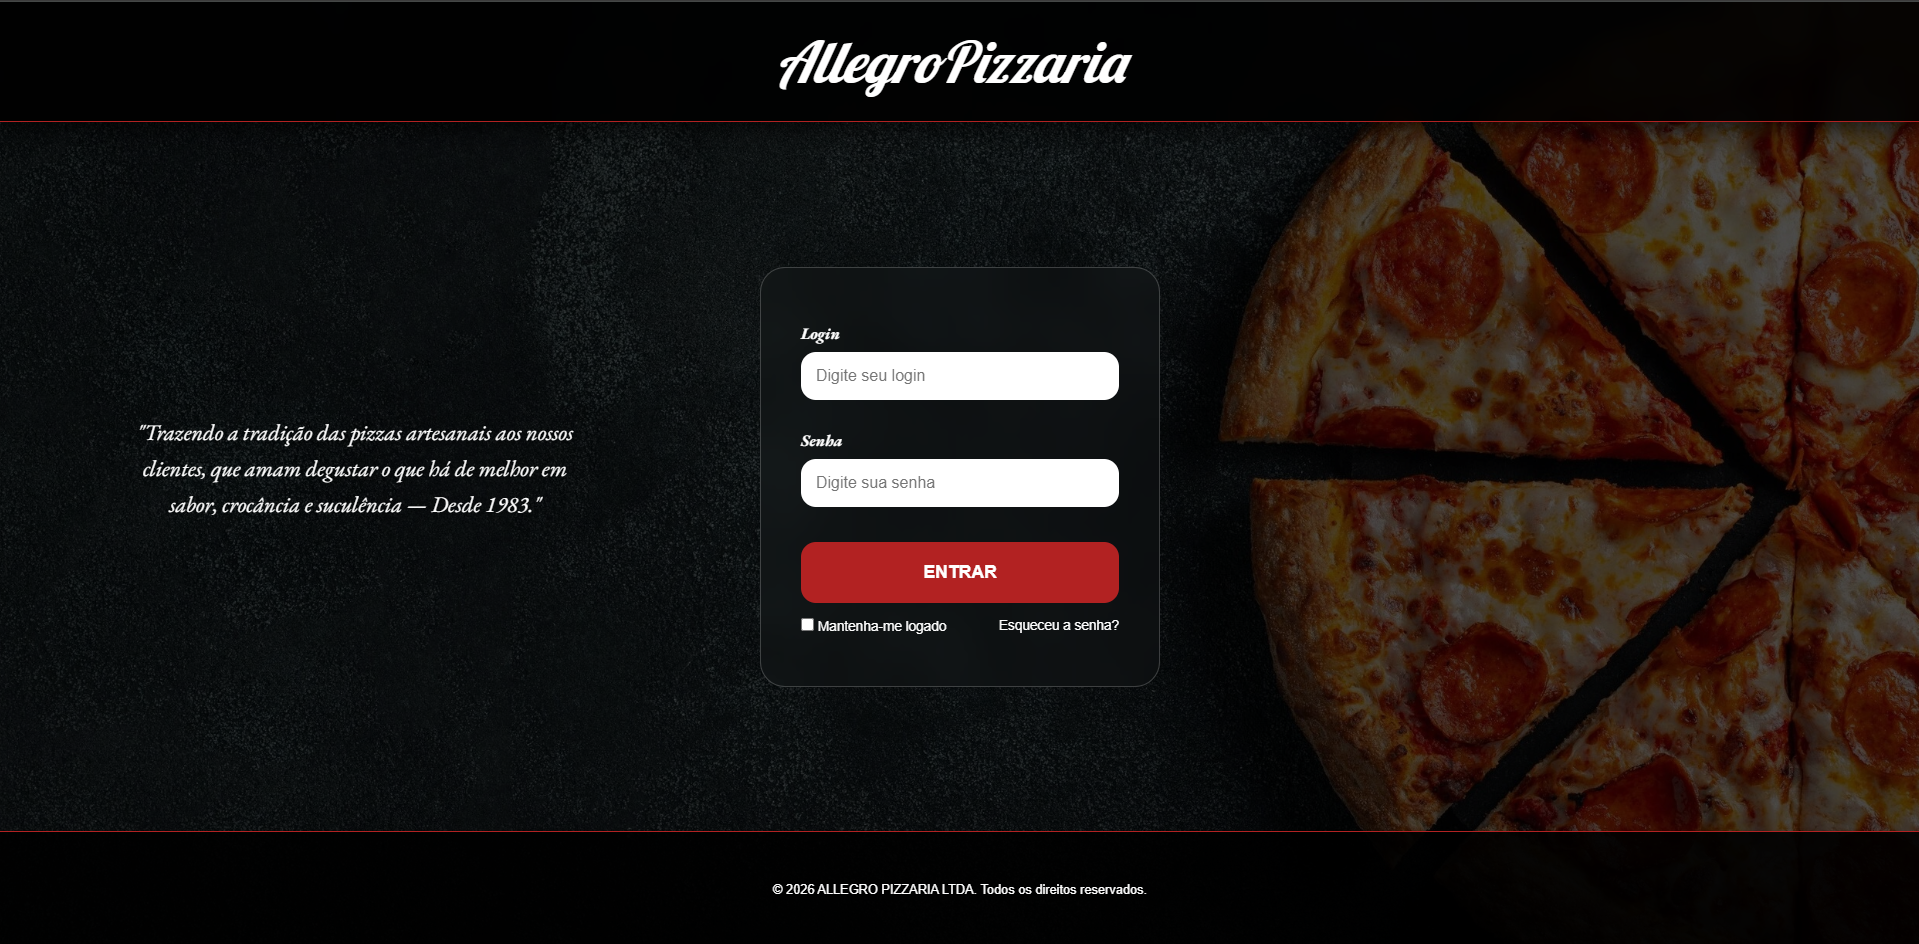
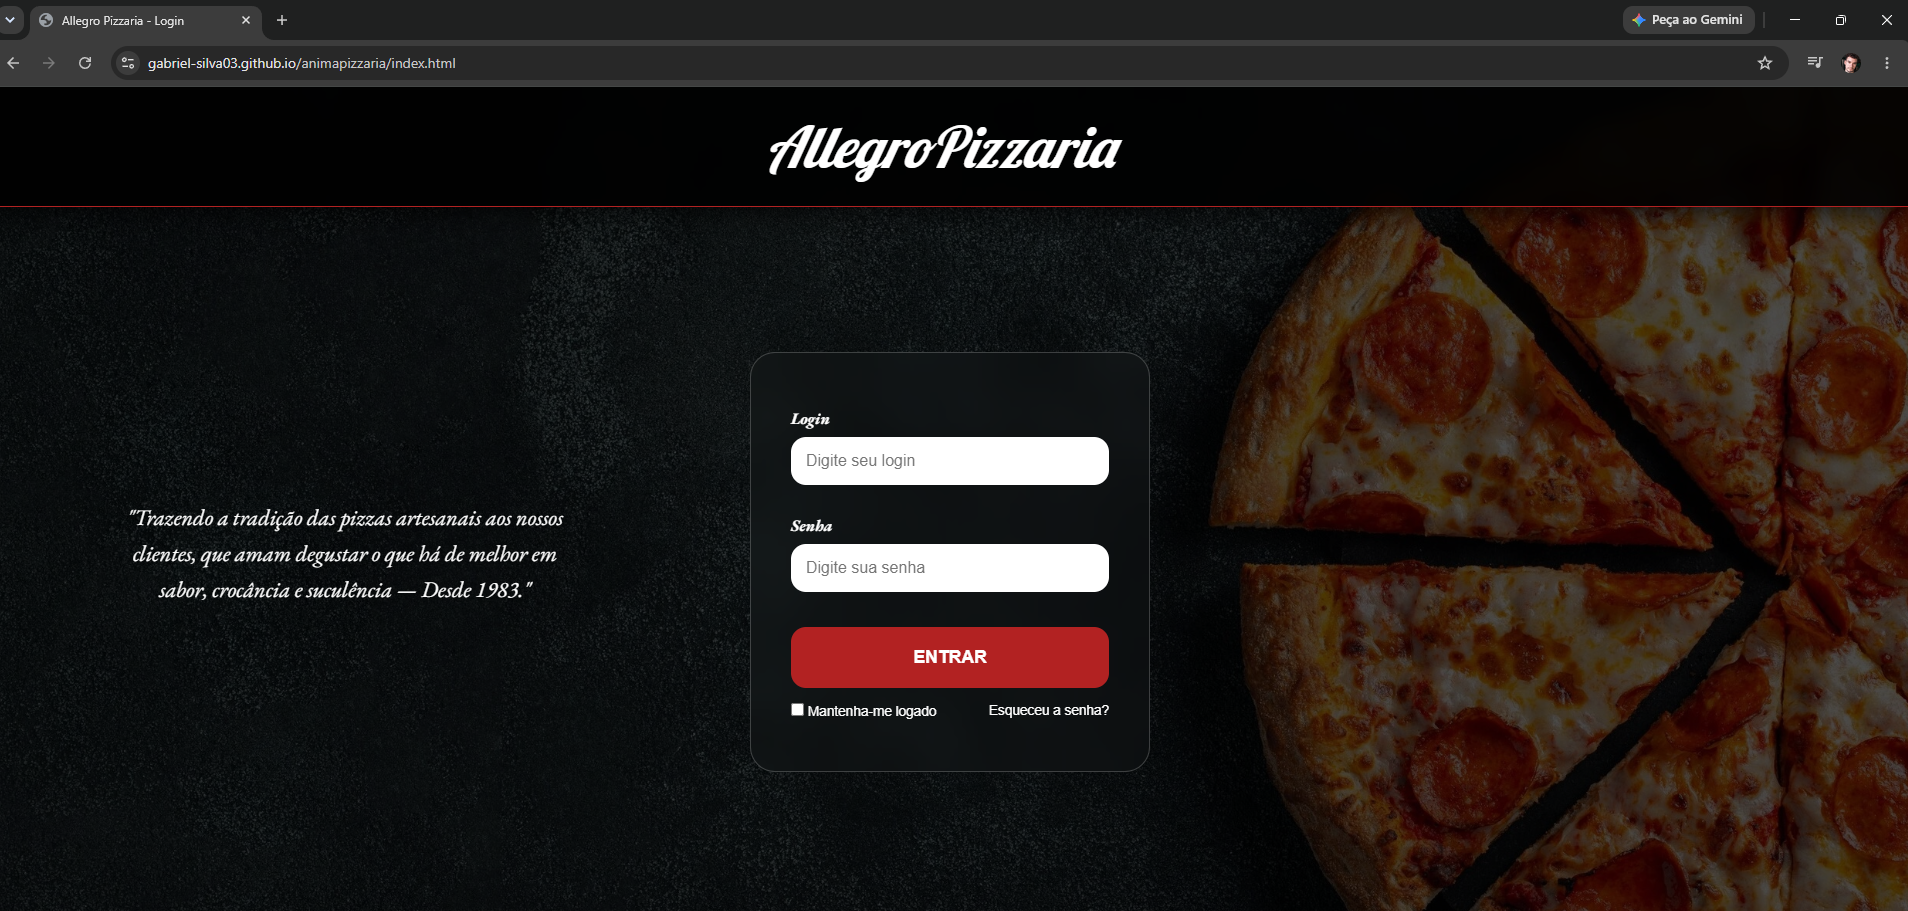
Correções de descrição animada e projetos realidos

diff --git a/index.html b/index.html
@@ -117,8 +117,8 @@
                     <i class="fab fa-html5"></i>
                     <h3>HTML5</h3>
                     <div class="barra-container">
-                        <div class="barra-progresso" data-porcentagem="90">
-                            <span class="barra-texto">90%</span>
+                        <div class="barra-progresso" data-porcentagem="80">
+                            <span class="barra-texto">80%</span>
                         </div>
                     </div>
                 </div>
@@ -127,8 +127,8 @@
                     <i class="fab fa-css3-alt"></i>
                     <h3>CSS3</h3>
                     <div class="barra-container">
-                        <div class="barra-progresso" data-porcentagem="85">
-                            <span class="barra-texto">85%</span>
+                        <div class="barra-progresso" data-porcentagem="75">
+                            <span class="barra-texto">75%</span>
                         </div>
                     </div>
                 </div>
@@ -137,8 +137,8 @@
                     <i class="fab fa-js-square"></i>
                     <h3>JavaScript</h3>
                     <div class="barra-container">
-                        <div class="barra-progresso" data-porcentagem="75">
-                            <span class="barra-texto">75%</span>
+                        <div class="barra-progresso" data-porcentagem="60">
+                            <span class="barra-texto">60%</span>
                         </div>
                     </div>
                 </div>
@@ -157,8 +157,8 @@
                     <i class="fab fa-git-alt"></i>
                     <h3>Git</h3>
                     <div class="barra-container">
-                        <div class="barra-progresso" data-porcentagem="70">
-                            <span class="barra-texto">70%</span>
+                        <div class="barra-progresso" data-porcentagem="50">
+                            <span class="barra-texto">50%</span>
                         </div>
                     </div>
                 </div>
@@ -167,8 +167,8 @@
                     <i class="fas fa-database"></i>
                     <h3>Banco de Dados</h3>
                     <div class="barra-container">
-                        <div class="barra-progresso" data-porcentagem="55">
-                            <span class="barra-texto">55%</span>
+                        <div class="barra-progresso" data-porcentagem="50">
+                            <span class="barra-texto">50%</span>
                         </div>
                     </div>
                 </div>
@@ -185,15 +185,16 @@
             <h2 class="secao-titulo">Meus Projetos</h2>
             <div class="projetos-grid">
 
+                <!-- Página de Login -->
                 <div class="projeto-card">
                     <div class="projeto-imagem">
-                        <img src="https://images.unsplash.com/photo-1555066931-4365d14bab8c?w=600" alt="Projeto 1">
+                        <img src="img/loginpage.png" alt="Projeto 1">
                         <div class="projeto-overlay">
                             <a href="#" class="btn-projeto">Ver Mais</a>
                         </div>
                     </div>
                     <div class="projeto-info">
-                        <h3>Site Institucional</h3>
+                        <h3>Pagina de Login</h3>
                         <p>Landing page moderna para empresa fictícia com design responsivo.</p>
                         <div class="projeto-tags">
                             <span class="tag">HTML</span>
@@ -203,45 +204,10 @@
                     </div>
                 </div>
 
+                <!-- Portfólio Pessoal -->
                 <div class="projeto-card">
                     <div class="projeto-imagem">
-                        <img src="https://images.unsplash.com/photo-1551288049-bebda4e38f71?w=600" alt="Projeto 2">
-                        <div class="projeto-overlay">
-                            <a href="#" class="btn-projeto">Ver Mais</a>
-                        </div>
-                    </div>
-                    <div class="projeto-info">
-                        <h3>Dashboard de Dados</h3>
-                        <p>Painel de visualização de dados com gráficos interativos.</p>
-                        <div class="projeto-tags">
-                            <span class="tag">Python</span>
-                            <span class="tag">SQL</span>
-                            <span class="tag">Power BI</span>
-                        </div>
-                    </div>
-                </div>
-
-                <div class="projeto-card">
-                    <div class="projeto-imagem">
-                        <img src="https://images.unsplash.com/photo-1551650975-87deedd944c3?q=80&w=1074" alt="Projeto 3">
-                        <div class="projeto-overlay">
-                            <a href="#" class="btn-projeto">Ver Mais</a>
-                        </div>
-                    </div>
-                    <div class="projeto-info">
-                        <h3>App de Tarefas</h3>
-                        <p>Aplicativo web para gerenciar tarefas com filtros e categorias.</p>
-                        <div class="projeto-tags">
-                            <span class="tag">JavaScript</span>
-                            <span class="tag">CSS</span>
-                            <span class="tag">LocalStorage</span>
-                        </div>
-                    </div>
-                </div>
-
-                <div class="projeto-card">
-                    <div class="projeto-imagem">
-                        <img src="https://images.unsplash.com/photo-1517694712202-14dd9538aa97?w=600" alt="Projeto 4">
+                        <img src="img/portfolio.png" alt="Projeto 4">
                         <div class="projeto-overlay">
                             <a href="#" class="btn-projeto">Ver Mais</a>
                         </div>

diff --git a/js/script.js b/js/script.js
@@ -5,7 +5,7 @@
 // Aqui você pode trocar as frases que vão ser "digitadas"
 const frases = [
     "Desenvolvedor Front-End em Formação",
-    "Designer & Analista de Interfaces (UI/UX)",
+    "Analista de Sistemas e Interfaces (UI/UX)",
     "Apaixonado por Games e Código"
 ];
 